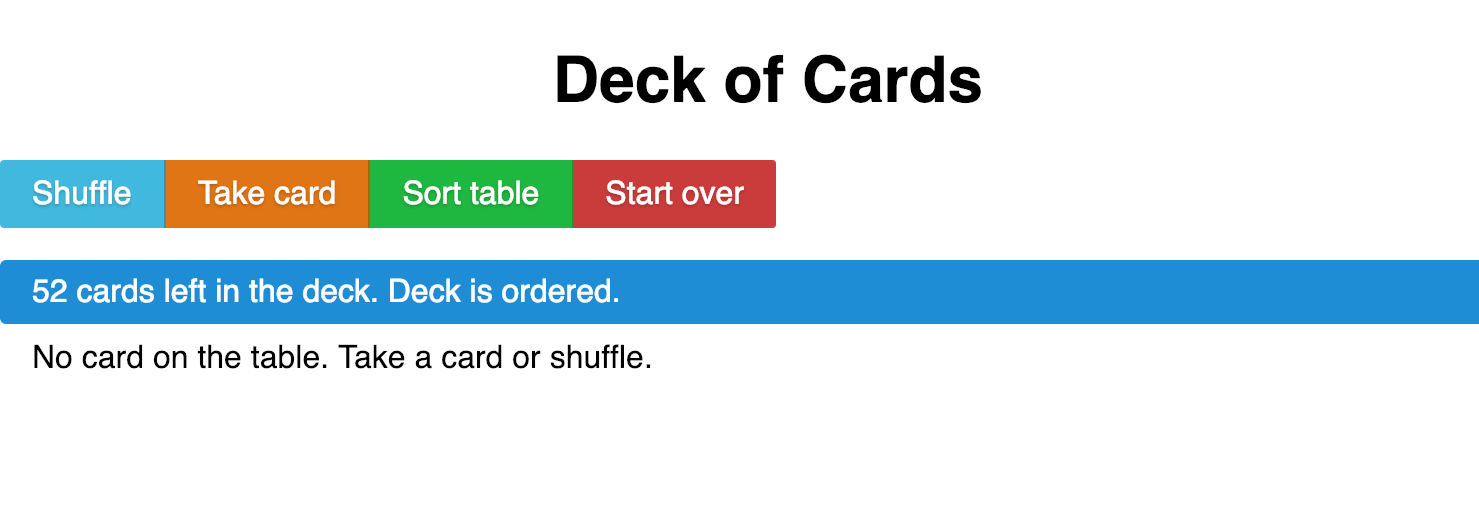
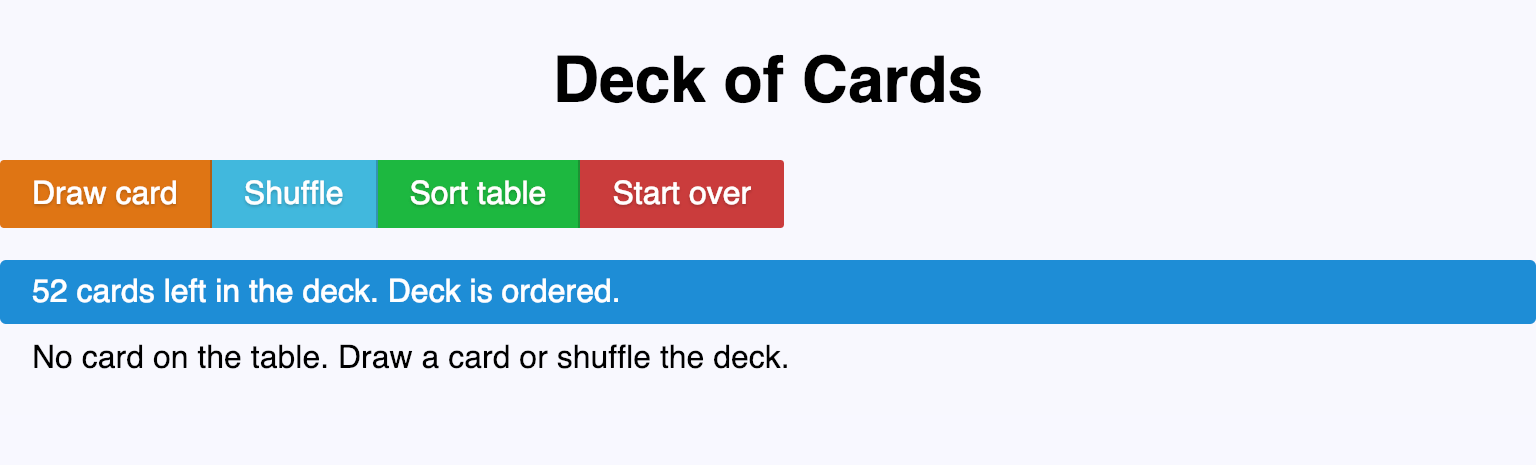
Improve layout of single card

Changed region(s): [[0.0, 0.3011, 1.0, 0.8129], [0.3421, 0.0903, 0.6842, 0.2409]]

diff --git a/src/App.css b/src/App.css
@@ -1,5 +1,9 @@
 /* App */
 
+body, html {
+  background: ghostwhite;
+}
+
 h1 {
   text-align: center;
 }
@@ -41,28 +45,58 @@ aside.deck {
   color: #fff;
 }
 
+/* card component */
+
 .card {
-  text-align: center;
-  height: 6em;
+  position: relative;
+  height: 20em;
   margin: 0.25em;
-  padding-top: 0.5em;
-  font-size: 3em;
-  border: 3px solid darkgray;
-  border-radius: 0.5em;
+  border-radius: 10px;
+  border: 1px solid lightgray;
+  background: white;
 }
 
 .card:hover {
   cursor: pointer;
-  opacity: .6;
+  border-color: black;
 }
 
-.card.red {
-  color: red;
+.card.card--red {
+  color: rgb(202, 60, 60);;
 }
 
-.card.black {
-  color: black;
+.card.card--black {
+  color:  rgb(45,45,45);
 }
+
+.card__rank, .card__suit {
+  position: absolute;
+}
+
+.card__rank {
+  font-size: 5em;
+  top: 50%;
+  left: 50%;
+  transform: translate(-50%, -50%);
+}
+
+.card .card__suit {
+  font-size: 2em;
+  font-weight: bold;
+  line-height: 1.5em;
+}
+
+.card .card__suit--top {
+  top: 5px;
+  left: 10px;
+}
+
+.card .card__suit--bottom {
+  bottom: 5px;
+  right: 10px;
+  transform: rotate(180deg);
+}
+
 
 /* UserTable component */
 

diff --git a/src/Game.test.js b/src/Game.test.js
@@ -25,17 +25,17 @@ describe('Game', () => {
     });
 
     it('has 2nd of club as first', () => {
-      expect(deck[0]).toBe('C2');
+      expect(deck[0]).toBe('♠2');
     });
 
     it('has Ace of dimond as last', () => {
-      expect(deck[51]).toBe('DA');
+      expect(deck[51]).toBe('♦A');
     });
   });
 
   describe('takeOneCard', () => {
     it('returns last card', () => {
-      expect(game.takeOneCard()).toEqual('DA');
+      expect(game.takeOneCard()).toEqual('♦A');
     });
 
     it('decreases the deck', () => {
@@ -65,7 +65,7 @@ describe('Game', () => {
   describe('giveCardBack', () => {
     it('returns last card', () => {
       let card = game.takeOneCard();
-      expect(game.giveCardBack(card)).toEqual('DA');
+      expect(game.giveCardBack(card)).toEqual('♦A');
     });
 
     it('increases the deck', () => {

diff --git a/src/Card.js b/src/Card.js
@@ -5,14 +5,15 @@ class Card extends Component {
     super(props);
     this.suit = this.props.value[0];
     this.rank = this.props.value.slice(1, 3);
-    this.bgColour = this.suit == 'H' || this.suit == 'D' ? 'red' : 'black';
+    this.bgColour = this.suit == '♥' || this.suit == '♦' ? 'card--red' : 'card--black';
   }
 
   render() {
     return (
       <div className={'card ' + this.bgColour }>
-        <div>{this.rank}</div>
-        <div>{this.suit}</div>
+        <div className='card__suit card__suit--top'>{this.suit}</div>
+        <div className='card__rank'>{this.rank}</div>
+        <div className='card__suit card__suit--bottom'>{this.suit}</div>
       </div>
     );
   }

diff --git a/src/Menu.js b/src/Menu.js
@@ -9,8 +9,8 @@ class Menu extends Component {
     return (
       <div className='pure-g menu'>
         <div className='pure-button-group' role='group'>
+          <button onClick={this.props.takeOneCard} className='pure-button take-btn'>Draw card</button>
           <button onClick={this.props.shuffle}className='pure-button shuffle-btn'>Shuffle</button>
-          <button onClick={this.props.takeOneCard} className='pure-button take-btn'>Take card</button>
           <button onClick={this.props.sortTable}className='pure-button sorttable-btn'>Sort table</button>
           <button onClick={this.props.startOver}className='pure-button startover-btn'>Start over</button>
         </div>

diff --git a/src/Card.test.js b/src/Card.test.js
@@ -9,10 +9,10 @@ it('renders without crashing', () => {
 });
 
 describe('red card', () => {
-  let card = new Card({ value: 'HQ'}); // queen of hearts
+  let card = new Card({ value: '♥Q'}); // queen of hearts
 
   it('has suit', () => {
-    expect(card.suit).toBe('H');
+    expect(card.suit).toBe('♥');
   });
 
   it('has rank', () => {
@@ -20,6 +20,6 @@ describe('red card', () => {
   });
 
   it('has bgColur red', () => {
-    expect(card.bgColour).toEqual('red');
+    expect(card.bgColour).toEqual('card--red');
   });
 });

diff --git a/src/Game.js b/src/Game.js
@@ -65,7 +65,7 @@ class Game {
   _buildDeck() {
     let result = [],
         ranks = ['2', '3', '4', '5', '6', '7', '8', '9', '10', 'J', 'Q', 'K', 'A'],
-        suits = ['C', 'S', 'H', 'D']; // clubs, spades, hearts, diamonds
+        suits = ['♠', '♣', '♥', '♦']; // clubs, spades, hearts, diamonds
 
     suits.forEach(function(suit) {
       ranks.forEach(function(rank){

diff --git a/src/UserTable.js b/src/UserTable.js
@@ -15,7 +15,7 @@ class UserTable extends Component {
         )
       );
     } else {
-      return <div className='pure-u-1-1 no-cards-msg'>No card on the table. Take a card or shuffle.</div>
+      return <div className='pure-u-1-1 no-cards-msg'>No card on the table. Draw a card or shuffle the deck.</div>
     }
   }
 

diff --git a/README.md b/README.md
@@ -10,7 +10,7 @@ Technology stack:
 * Babel
 * Webpack
 * ESLint
-* pure.css (not Bootstrap this time)
+* [pure.css](https://purecss.io/) (not Bootstrap this time)
 
 
 ## Description
@@ -70,16 +70,16 @@ I choose Travis. See the badge at the top of this file.
 
 ## Screenshots and how it works.
 
-### 1. Start the app
+### 1. Start of the app
 
 ![Screentshot3](screenshots/screenshot1.png)
 
-### 2. Shuffle and take 6 cards
+### 2. Shuffle the deck and draw 6 cards
 
 ![Screentshot3](screenshots/screenshot2.png)
 
 **Note** that 45 has cards left int the deck,
 
-### 3. Put 8th of clubs aback and sort user table.
+### 3. Put the ace of dimonds back to the deck and sort user's table.
 
 ![Screentshot3](screenshots/screenshot3.png)
